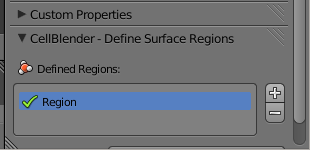
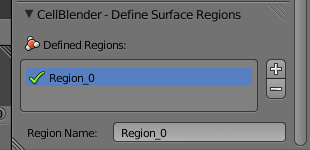
Cleaned up "Getting Started".
-Updated the references to the sub-titles
-Made line wrapping consistent
-Updated CellBlender version information

diff --git a/getting_started.rst b/getting_started.rst
@@ -4,12 +4,12 @@
 Getting Started
 *********************************************
 
-.. CellBlender Source ID = 55f468aa7b71e044b3b199786f5af1d83bb3cab8
-   Git Repo SHA1 ID: 76c4b2c18c851facefad7398f3f9c86a0abb8cdc
+.. Git Repo SHA1 ID: a1abdd291b75176d6581df41329781ae5d5e1b7d
 
 .. note::
+
     The simulations and visualizations in this tutorial were generated using
-    Blender 2.67 and CellBlender 0.1.57. It may or may not work with other
+    Blender 2.67 and CellBlender 1.0 RC. It may or may not work with other
     versions.
 
 If you haven't already done so, install the required software listed in
@@ -49,7 +49,7 @@ commands.
   section. If not, or if you'd like to go through it again, the following
   instructions should give you the same result.
 
-.. _gen_mesh:
+.. _start_blender:
 
 Starting Blender
 ---------------------------------------------
@@ -64,7 +64,7 @@ modify this object shortly, but first we need to set some project settings.
 
 .. image:: ./images/gs_cube.png
 
-.. _define_region:
+.. _project_settings:
 
 Set Project Settings
 ---------------------------------------------
@@ -104,6 +104,8 @@ the directory field, **intro.blend** into the file name field, and hit the
 
 .. image:: ./images/gs_project_settings2.png
 
+.. _define_region:
+
 Define a Surface Region
 ---------------------------------------------
 
@@ -116,13 +118,13 @@ Scroll to the bottom of the Properties Editor panel (if needed). Expand the
 **Define Surface Regions** panel (*note: you may have to scroll further if an
 action expands the size of a panel, because new fields may appear beyond the
 currently visible portion of the panel*). Hit the **+** button to add a new
-region, which appears in the list with the name "**Region**".
+region, which appears in the list with the name "**Region_0**".
 
 .. image:: ./images/gs_new_region.png
 
 Rename this new surface region to "**top**" by changing the **Region Name**
-field from "**Region**" to "**top**" (*again, you may need to scroll the panel
-to see all of the new fields created by the* **+** *button*).
+field from "**Region_0**" to "**top**" (*again, you may need to scroll the
+panel to see all of the new fields created by the* **+** *button*).
 
 .. image:: ./images/gs_top.png
 
@@ -190,6 +192,8 @@ units are in seconds.
 
 .. image:: ./images/gs_model_init.png
 
+.. _define_molecules:
+
 Define Molecules
 ---------------------------------------------
 
@@ -206,16 +210,18 @@ Name** to **vol1**, the **Molecule Type** to **Volume Molecule**, and the
 
 .. image:: ./images/gs_define_molecule_vol1.png
 
-Repeat this process for the next molecule
-in the list, but call this one **vol2**. It will also be a **Volume Molecule** with a **Diffusion Constant** of **1e-6**.
+Repeat this process for the next molecule in the list, but call this one
+**vol2**. It will also be a **Volume Molecule** with a **Diffusion Constant**
+of **1e-6**.
 
 .. image:: ./images/gs_define_molecule_vol2.png
 
-Now, change the third entry to
-**surf1**. The **Molecule Type** should be set to **Surface Molecule** and
-change the **Diffusion Constant** to **1e-7**.
+Now, change the third entry to **surf1**. The **Molecule Type** should be set
+to **Surface Molecule** and change the **Diffusion Constant** to **1e-7**.
 
 .. image:: ./images/gs_define_molecule_surf1.png
+
+.. _define_reactions:
 
 Define Reactions
 ---------------------------------------------
@@ -241,21 +247,22 @@ section. Lastly, change **Forward Rate** to **1e8**.
 
 .. image:: ./images/gs_define_reactions.png
 
+.. _define_release_sites:
+
 Create Release Sites
 ---------------------------------------------
 
 We have defined molecules and reactions, but we still need to release some
 molecules into our simulation.
 
-Expand the **Molecule Release/Placement** panel and hit the **+**
-button twice.  This will create two instances of **Release Site** with errors
-because we haven't defined any molecule names yet.
+Expand the **Molecule Release/Placement** panel and hit the **+** button twice.
+This will create two instances of **Release Site** with errors because we
+haven't defined any molecule names yet.
 
 .. image:: ./images/gs_release_empty.png
 
-Select the first instance
-(*you may need to scroll down to see the entire panel*), and change **Site Name** 
-to **vol1_rel**.
+Select the first instance (*you may need to scroll down to see the entire
+panel*), and change **Site Name** to **vol1_rel**.
 
 .. image:: ./images/gs_release_add_vol1_rel.png
 
@@ -271,9 +278,8 @@ Change **Object/Region** to **Cube**.
 
 .. image:: ./images/gs_release_add_vol1_rel_obj.png
 
-Change **Quantity to Release** 
-to **2000**. This will release 2000 **vol1** molecules randomly throughout the interior 
-of the **Cube** object.
+Change **Quantity to Release** to **2000**. This will release 2000 **vol1**
+molecules randomly throughout the interior of the **Cube** object.
 
 .. image:: ./images/gs_vol1_rel.png
 
@@ -285,6 +291,8 @@ to Release** to **2000**. This will release **2000** molecules randonmly on the
 
 .. image:: ./images/gs_surf1_rel.png
 
+
+.. _create_reaction_output:
 
 Create Reaction Output
 ---------------------------------------------
@@ -313,6 +321,8 @@ them to vol1 and vol2 respectively to get this:
 
 .. image:: ./images/gs_reaction_output2.png
 
+.. _create_visualization_output:
+
 Create Visualization Output
 ---------------------------------------------
 
@@ -325,7 +335,7 @@ Then click the **Toggle All** button to export all molecules for visualization:
 
 .. image:: ./images/gs_rxn_viz_output_all_selected.png
 
-.. _export_mdls:
+.. _run_sim:
 
 Run Simulation
 ---------------------------------------------
@@ -340,12 +350,16 @@ green check mark will appear when the simulations have completed.
 
 .. image:: ./images/gs_run_simulation2.png
 
+.. _save_project:
+
 Save Your Project
 ---------------------------------------------
 
 From the **File** menu, select the **Save** option (or hit **Ctrl-s**). This
 will save any changes that you have made to the blend, including the
 CellBlender specific settings (e.g. molecule definitions, release sites, etc).
+
+.. _review:
 
 Review
 ---------------------------------------------

diff --git a/software.rst b/software.rst
@@ -7,14 +7,14 @@ Software Needed
 To use these tutorials, you'll want to have the following software installed:
 
 * MCell_ (registration required, :ref:`mcell_install`)
-* `CellBlender 0.1.57`_ (:ref:`cellblender_install`)
+* `CellBlender 1.0 RC`_ (:ref:`cellblender_install`)
 * `Blender 2.67`_ (Blender 2.66a will work as well)
 * A text editor (gedit_, vim_, emacs_, etc.)
 * Some graphing and analysis software (matplotlib_ (with Python_ and numpy_), Grace_, gnuplot, etc.)
 
 .. _MCell: http://mcell.psc.edu/download.html
 .. _installation instructions: http://www.mcell.psc.edu/tutorials/installs.html
-.. _CellBlender 0.1.57: https://code.google.com/p/cellblender/downloads/list
+.. _CellBlender 1.0 RC: https://code.google.com/p/cellblender/downloads/list
 .. _Blender 2.67: http://www.blender.org/download/get-blender/
 .. _gedit: http://projects.gnome.org/gedit/
 .. _vim: http://www.vim.org/
